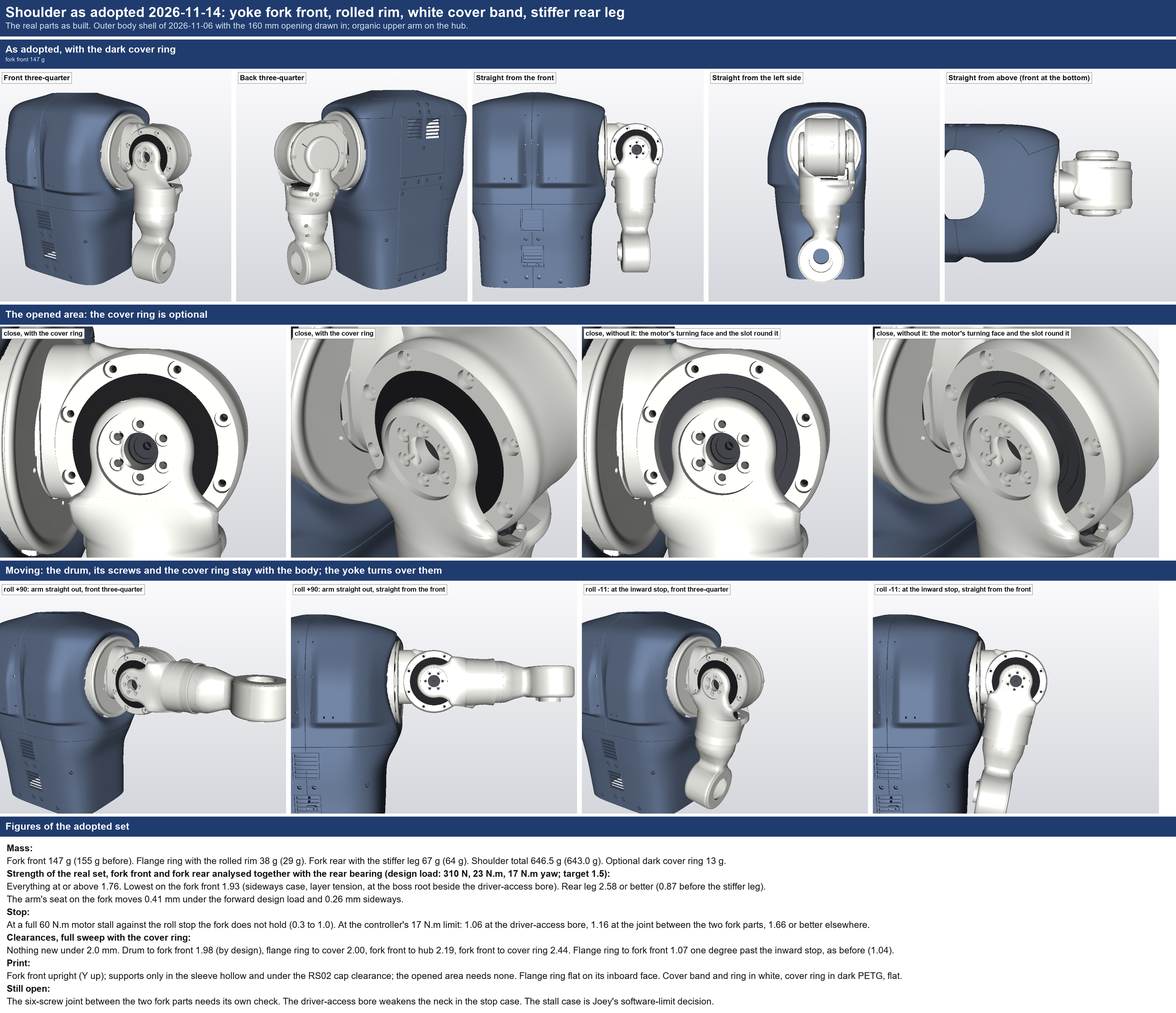
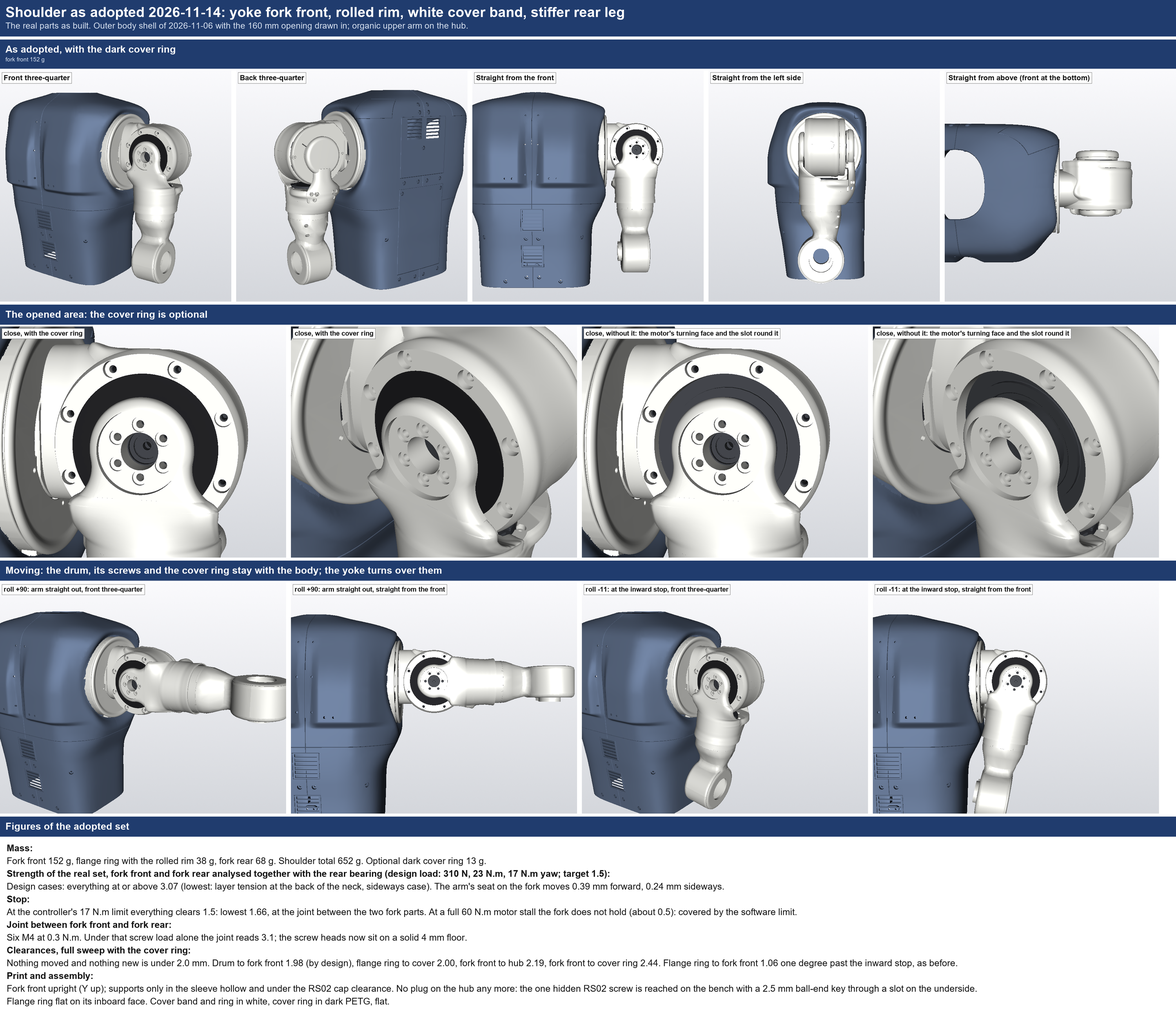
Shoulder fork: adopt the structural revision so the roll stop at 17 N.m clears 1.5 everywhere
Fork front: a key slot on the hidden underside replaces the driver bore through the neck and its plug on the hub; the
joint pad is 3 mm thick with two gussets inside the sleeve (151.8 g). Fork rear: 4 mm counterbore floors under the outer
joint screws on a solid 4.4 mm front plate (68.2 g). The access plug part is removed. Real builds, exports recorded,
assembly rebuilt, clearance sweep unchanged; combined and bolted-joint cases on the real set: lowest 3.07 in the design
cases and 1.66 at the 17 N.m stop. Joint screws to 0.3 N.m.

diff --git a/cad/scripts/shoulder/build_parts.py b/cad/scripts/shoulder/build_parts.py
@@ -456,6 +456,8 @@ def build_access_plugs():
     """FRONT BLEND mock-up: press-in plugs (Ø6.9 in the Ø7 RS02 access holes) at the dome's top, 7 deep, top trimmed to
     the dome's r 55 surface about the roll axis; a 2 x 1 mm pry notch on the back edge (toward the drum, out of sight)
     lifts them out with a small screwdriver."""
+    if KEY_SLOT and FORK_YOKE and LOOK not in ('ffT', 'ffTS'):
+        raise SystemExit('no access plug: the key slot ends on the hidden underside and the long driver bore is gone')
     d = new_part(OUT / 'shoulder_fork_access_plugs_left.SLDPRT')
     if FORK_YOKE and LOOK not in ('ffT', 'ffTS'):
         # YOKE: one plug. The 104 deg driver bore comes out at the top of the hub's head (r 30 about the roll axis); the plug
@@ -776,6 +778,22 @@ def build_fork_front():
         _py0, _pw = _py0 - 2.5, _pw + 6.0
     extrude(d, zsk(d, JZ0 + _pt, 'JOINT_PAD', lambda s: s.rpoly(rect_pts((RX, (_py0 + SEAT_Y[1]) / 2, JZ0 + _pt), X, Y, _pw, SEAT_Y[1] - _py0), [4, 4, 4, 4])),
             'JOINT_PAD', _pt, NZ, lo=-1.0)
+    if JOINT_GUSSET:
+        def _wall_x(y_, side):
+            q = [(a_[0], a_[2]) for a_ in EV.sleeve_section(y_, 2.0)]
+            zc_ = JZ0 + _pt / 2
+            xs_ = []
+            for (x0, z0_), (x1, z1_) in zip(q, q[1:] + q[:1]):
+                if (z0_ - zc_) * (z1_ - zc_) <= 0 and z0_ != z1_:
+                    xs_.append(x0 + (x1 - x0) * (zc_ - z0_) / (z1_ - z0_))
+            return (min(xs_) if side < 0 else max(xs_))
+        yT, yB = _py0 + 0.3, _py0 + 0.3 - JOINT_GUSSET
+        for sd_ in (-1, 1):
+            xT, xB = _wall_x(yT, sd_), _wall_x(yB, sd_)
+            g_ = [(xT + sd_ * 1.0, yT), (xT - sd_ * 6.0, yT), (xB - sd_ * 0.3, yB), (xB + sd_ * 1.0, yB)]
+            log(f'  gusset {sd_:+d}: wall X offset {xT - RX:.1f} at Y {yT:.1f}, {xB - RX:.1f} at Y {yB:.1f}')
+            extrude(d, zsk(d, JZ0 + _pt, f'JOINT_GUSSET_{"L" if sd_ < 0 else "R"}', lambda s, g_=g_: s.poly([(x_, y_, JZ0 + _pt) for x_, y_ in g_])),
+                    f'JOINT_GUSSET_{"L" if sd_ < 0 else "R"}', _pt, NZ, lo=-1.0)
     if FB == '3':
         # FRONT BLEND 3, true wrap: ONE loft from the cuff's whole front half (+-90 deg about the yaw axis) at the seat top up
         # into the cheek's exact crowned section at Y 392 (and on inside the cheek), so cuff, skirt and cheek are one
@@ -1052,8 +1070,12 @@ def build_fork_rear():
     fillet(d, edges_where(d, _in_root), [ss['root_r'], 1.0], 'TOOTH_ROOT')
     # the hollow stops 1.6 short of the joint plane: a front plate, so the skin does not run out to a knife edge where the
     # outline meets the plane at a shallow angle (the cable channel cuts through the plate where the cables pass)
-    hy = [y_ for y_ in ((Y_SPLIT - 0.5, 344.0, 349.0) if SC47 else (SL['y_bot'] + 2.0, 322.0, 330.0, 338.0, 344.0, 349.0)) if min(q[2] for q in EV.sleeve_section(y_, 2.0)) < JZ0 - (1.6 + JOINT_EXTRA) - 1.0]
-    hs = [clip_sk(y_, 'rear', 2.0, 0.0, f'SLEEVE_R_IN{i}', zc=JZ0 - (1.6 + JOINT_EXTRA)) for i, y_ in enumerate(hy)]   # SIDE CENTRE: the thin bottom stays solid
+    # front plate at the joint: 1.6 as first built. With the thicker counterbore floors (JOINT_FLOOR over 3) it is at least
+    # 0.4 more than the floor, so every screw head seats on solid plate: as first built the hollow reached under the lower
+    # pair's counterbores, the head sat partly on the 1.6 mm plate, and the floor plane touched the hollow along an edge
+    _plate = max(1.6 + JOINT_EXTRA, JOINT_FLOOR + 0.4) if JOINT_FLOOR > 3.0 else 1.6 + JOINT_EXTRA
+    hy = [y_ for y_ in ((Y_SPLIT - 0.5, 344.0, 349.0) if SC47 else (SL['y_bot'] + 2.0, 322.0, 330.0, 338.0, 344.0, 349.0)) if min(q[2] for q in EV.sleeve_section(y_, 2.0)) < JZ0 - _plate - 1.0]
+    hs = [clip_sk(y_, 'rear', 2.0, 0.0, f'SLEEVE_R_IN{i}', zc=JZ0 - _plate) for i, y_ in enumerate(hy)]   # SIDE CENTRE: the thin bottom stays solid
     d.ClearSelection2(True)
     for k in hs:
         k.Select2(True, 1)

diff --git a/cad/scripts/shoulder/dims.py b/cad/scripts/shoulder/dims.py
@@ -96,18 +96,22 @@ DOME = dict(r=55.0, edge=5.0, back_t=2.4, pocket_r=(24.5, 52.6), pockets=[(-20.0
 # of yoke.py, a solid neck (no pockets on the back face) and a 4.5 mm blend cone at the boss root. FORK_YOKE=0 builds the
 # dome of 2026-11-13 again (LOOK=ffT, ffTS do so for the analysis builds).
 FORK_YOKE = os.environ.get('FORK_YOKE', '1') != '0'
-# KEY SLOT (look variant until adopted): the 104 deg RS02 screw is reached with a ball-end key tilted KEY_SLOT_DEG back
+# KEY SLOT: the 104 deg RS02 screw is reached with a ball-end key tilted KEY_SLOT_DEG back
 # from the screw's axis, through a short slot that comes out on the fork front's hidden underside (the drum's envelope, open
 # on the bench where the RS02 goes on). It replaces the dia 7 driver bore that ran 95 mm up through the neck beside the boss
-# root to the top of the hub's head, and its plug. KEY_SLOT=1 to build it.
-KEY_SLOT = os.environ.get('KEY_SLOT', '0') != '0'
+# root to the top of the hub's head, and its plug. KEY_SLOT=0 builds the bore again.
+KEY_SLOT = os.environ.get('KEY_SLOT', '1') != '0'      # adopted 2026-11-14 (checks/FORK_FRONT_FE.md, structural revision)
 KEY_SLOT_DEG = 20.0
-# counterbore floor under the four outer joint screws' heads in the fork rear (the inner pair has 5.5): 3.0 as first built
-JOINT_FLOOR = float(os.environ.get('JOINT_FLOOR', '3.0'))
+# counterbore floor under the four outer joint screws' heads in the fork rear (the inner pair has 5.5)
+JOINT_FLOOR = float(os.environ.get('JOINT_FLOOR', '4.0'))      # 4.0 adopted 2026-11-14 (3.0 before)
 # more material at the joint between fork front and fork rear, all inside the sleeve (the stop's torque crosses the joint as
 # a pull along Y on the end screws): the fork front's pad JOINT_EXTRA x 2 thicker (1 mm as first built), 2.5 mm further down
 # and 3 mm wider each side; the fork rear's front plate JOINT_EXTRA thicker (1.6 as first built)
-JOINT_EXTRA = float(os.environ.get('JOINT_EXTRA', '0'))
+JOINT_EXTRA = float(os.environ.get('JOINT_EXTRA', '1.0'))      # 1.0 adopted 2026-11-14 (0 before)
+# two gussets inside the fork front's sleeve, in the pad's plane, from the pad's two lower corners JOINT_GUSSET mm down the
+# sleeve's walls (6 mm wide at the pad, tapering to nothing): the stop's pull runs into the wall over a length. Clear of the
+# cable exit by 2.4 mm or more (the channel is X -15.8 to +17 with its walls and enters this plane only below Y 332)
+JOINT_GUSSET = float(os.environ.get('JOINT_GUSSET', '10'))      # 10 adopted 2026-11-14 (0 before)
 YOKE = dict(r=30.0, wedge=36.0, fillet=22.0, round=13.0, pocket_wall=4.0, half_w=0.0)   # round 13 (was 9.5): softer shoulder ends
 # COVER RING (new part, 2026-11-14, optional): a dark ring pressed into the drum's lip bore. It closes the 7 mm slot between
 # the RS03's turning face (to r 36) and the lip's bore (r 43), which the yoke leaves open to view, and gives the opening one

diff --git a/hardware/shoulder/study-20261111/cad-pass1/scripts/render_pass1.py b/hardware/shoulder/study-20261111/cad-pass1/scripts/render_pass1.py
@@ -46,7 +46,7 @@ def step_mesh(path, M=None, tol=0.2):
 
 SRC = np.array([[-1, 0, 0, 97], [0, 0, 1, 424.860667548201], [0, 1, 0, -0.0141253439872], [0, 0, 0, 1]], float)   # left source -> torso
 print('loading', flush=True)
-P = {k: trimesh.load(STL / f'{k}.stl') for k in ('drum', 'ring', 'cap', 'fork_front', 'fork_rear', 'hub', 'cover', 'port_cap', 'access_plugs')}   # access plugs: front blend 3   # fork cap dropped (look option a)
+P = {k: trimesh.load(STL / f'{k}.stl') for k in ('drum', 'ring', 'cap', 'fork_front', 'fork_rear', 'hub', 'cover', 'port_cap') + (() if KEY_SLOT else ('access_plugs',))}   # no access plug once the key slot is adopted   # access plugs: front blend 3   # fork cap dropped (look option a)
 brg = trimesh.creation.annulus(r_min=20.0, r_max=26.0, height=7.0, sections=96)
 brg.apply_translation((RX, RY, (BRG_Z[0] + BRG_Z[1]) / 2))
 M = dict(roll_rs03=step_mesh(REPO / 'cad/vendor/robstride/vendor_robstride_rs03.stp', T_ROLL_RS03),

diff --git a/hardware/shoulder/study-20261111/cad-pass1/PRINT_NOTES.md b/hardware/shoulder/study-20261111/cad-pass1/PRINT_NOTES.md
@@ -15,9 +15,8 @@ still needs its pre-print gate
 | Flange ring | `shoulder_pitch_flange_ring_left` | 38.1 g | 2026-11-14 (rolled rim B, adopted) | Exported and recorded 2026-11-14. Prints in the visible white |
 | Rear cap | `shoulder_roll_cap_left` | 85.4 g | 2026-11-14 (rear cap screw fix: sockets, Ø2.9 holes) | Exported and recorded 2026-11-14. **Waits** for the roll cable decision (the roll rig) |
 | Drum port cap | `shoulder_roll_drum_port_cap_left` | 1.4 g | 2026-11-11 | Geometry settled. **No recorded export** |
-| Fork front | `shoulder_fork_front_left` | 146.8 g | 2026-11-14 (yoke, solid neck, root cone: adopted) | Exported and recorded 2026-11-14. **Waits** for a real plug tried in the channel, and for the rig (the skirt bounds the dish loop) |
-| Access plug (1) | `shoulder_fork_access_plugs_left` | 0.3 g | 2026-11-14 (one plug, at the top of the hub's head) | Exported and recorded 2026-11-14. Print with the fork front |
-| Fork rear | `shoulder_fork_rear_left` | 67.2 g | 2026-11-14 (stiffer leg, adopted) | Exported and recorded 2026-11-14. **Waits** for the 6808 coupon and for the rig (it carries the yaw exit) |
+| Fork front | `shoulder_fork_front_left` | 151.8 g | 2026-11-14 (yoke; then the key slot, 3 mm joint pad and two inside gussets) | Exported and recorded 2026-11-14. **Waits** for a real plug tried in the channel, and for the rig (the skirt bounds the dish loop) |
+| Fork rear | `shoulder_fork_rear_left` | 68.2 g | 2026-11-14 (stiffer leg; then 4 mm counterbore floors on a solid 4.4 mm front plate) | Exported and recorded 2026-11-14. **Waits** for the 6808 coupon and for the rig (it carries the yaw exit) |
 | Cover ring (optional) | `shoulder_roll_cover_ring_left` | 13.1 g | 2026-11-14 (new) | Exported and recorded 2026-11-14. Dark PETG. Can be left off |
 | **Hub** | `shoulder_hub_left` | 80.2 g | 2026-11-14 (rev D3c7, adopted) | **Released for the stage 1 print. Print file ready** (hub section below) |
 | Pitch loop cover | `shoulder_pitch_loop_cover_left` | 102.3 g | 2026-11-11 | **Waits:** its M5 pads are placeholders and the feed position waits for the final shell (CAD_NOTES "Still open") |
@@ -26,8 +25,8 @@ still needs its pre-print gate
 - **Hub:** `cad/exports/shoulder/shoulder_hub_left.STEP/.STL` is rev D3c7 (2026-11-14), the adopted hub. STL SHA-256
[1 lines of base64/hex data omitted]
 - **Drum, rear cap:** exported and recorded 2026-11-14, with the rear cap screw fix.
-- **Fork front, access plug, fork rear, flange ring, cover ring:** exported and recorded 2026-11-14 with the adoption of
-  the yoke (CAD_NOTES "Adopted 2026-11-14: yoke fork front").
+- **Fork front, fork rear, flange ring, cover ring:** exported and recorded 2026-11-14 (CAD_NOTES "Adopted 2026-11-14: yoke
+  fork front" and "Adopted 2026-11-14: structural revision"). There is no access plug any more.
 - **Port cap:** no export in `cad/exports/` yet. Its STL is in the scratch folder only.
 
 ## Part by part
@@ -69,20 +68,19 @@ Material PETG throughout. "Not sliced" applies to every orientation and support 
   flatness after printing (CAD_NOTES "Still open").
 - **The opened area needs no support:** it is open air above the two shoulders, which face upward. The hub's head widens
   from the neck by 2 mm a side over 17 mm of height, and the root cone is 45°: both print without support.
-- **The driver-access bore** (Ø7, for the 104° RS02 screw) runs up through the neck and comes out at the top of the hub's
-  head. It prints as a vertical hole. Its plug goes in after the RS02 screws are tight.
+- **Key slot for the 104° RS02 screw** (adopted 2026-11-14; it replaces the Ø7 driver bore through the neck and its
+  plug): a 7 mm slot from the screw's head, tilted 20° back, out onto the fork front's hidden underside. Reach the screw
+  with a **2.5 mm ball-end hex key held 20° back from the screw's axis** (a ball end works to about 25°). **Bench only:** the
+  RS02 goes onto the fork front before the fork front goes onto the drum; once the drum is on, the slot is covered.
+  Section: checks/size_audit/KEY_ACCESS.png.
+- **Inside the sleeve at the joint:** the pad is 3 mm thick with two small gussets down the walls. They print without
+  support (31° from vertical) and stay 2.4 mm or more clear of the cable exit.
 - **Holes printed Ø3.8, reamed Ø4.00:** three on the RS03 boss, at 0° and ±120° on r 15.2. They take Ø4 × 16 pins into the
   RS03's three plain locating holes.
 - **Inserts:** six M4 for the fork joint.
 - **Before the first print:** try a real XT30(2+2)-F with its lead in the plug channel's size (r 36-50, 16.5 wide,
   Y 353.9-361.1). The plug's height along the motor axis is assumed.
 - Source: CAD_NOTES "Side centre r 47" and "RS02 re-clocked +40°".
-
-### Access plug
-- **One plug** (Ø6.9 × about 7), flat. It presses into the 104° access bore at the top of the hub's head after the RS02
-  screws are in; a pry notch on its back edge lifts it out.
-- The 144° bore ends under the drum, out of sight, and gets no plug. (The second plug of the earlier part sat inside the
-  drum's volume; it is dropped.)
 
 ### Cover ring (optional)
 - **What:** a dark ring pressed into the drum's lip bore (Ø86), flush with the lip's face. It closes the 7 mm slot between
@@ -94,7 +92,10 @@ Material PETG throughout. "Not sliced" applies to every orientation and support 
 
 ### Fork rear
 - **Leg, adopted 2026-11-14:** 2 mm wider each side and 2 mm deeper at its upper stations (Y 380 and 402). The thin
-  section beside the cable channel read 0.87 on layer tension before and reads 2.6 or better now (FORK_FRONT_FE.md).
+  section beside the cable channel read 0.87 on layer tension before and reads 3.1 or better now (FORK_FRONT_FE.md).
+- **Joint, adopted 2026-11-14:** the four outer joint screws' counterbore floors are 4.0 mm (3.0 before) on a solid
+  4.4 mm front plate; before, the hollow reached under the lower pair's heads. A button head now sits about flush
+  (0.1 mm proud of its recess).
 - **Orientation:** upright, Y up; it starts on its flat bottom at Y 340.
 - **Supports:** its hollow's roof (Y 340-349); a small one under the stop tooth's outer face (that face carries no load).
 - **6808 housing:** modelled Ø52.2 with a 0.4 mm flat at the top, because the bore prints on its side. **Print the seat
@@ -189,7 +190,7 @@ clamps nothing.**
 | Drum → pitch RS03 output | 6 × **M4 × 18 with one washer**, or M4 × 16 | 6 × M4, depth 6, blind | Pad 11.7 mm. M4 × 18 bare goes in 6.3 mm and bottoms; with a 0.8 mm washer 5.5 mm; M4 × 16 gives 4.3 mm |
 | Drum → roll RS03 housing | 8 × **M4 × 10** | 8 × M4, depth 8 | Flange 3.5 mm under the head. M4 × 10 gives 6.5 mm; M4 × 12 goes in 8.5 mm and bottoms |
 | Fork front → RS02 body | 5 × **M3 × 12** on PCD 73 at -96 / -56 / -16 / 104 / 144° | 9 × M3, depth 8 (given from the output side) | Seat 6.5 mm. 5.5 mm into the motor. M3 × 16 bottoms. **Check on the motor** that the holes are threaded from the rear, as the old bracket used them |
-| Fork rear → fork front (joint) | 6 × ISO 7380 M4 button heads: **2 × M4 × 10** (X ±17) and **4 × M4 × 8** | M4 heat-set inserts, bore Ø5.6 × 7.3-7.8 deep | **Torque 0.15 N·m, no more:** the counterbore floors are 3 mm thick and read 1.0 under 0.3 N·m of screw load alone (FORK_FRONT_FE.md, "The six-screw joint"). The recesses are about 3.1 mm deep, so a DIN 912 head would stand proud. **Use short inserts (4 mm):** a standard 8.1 mm insert stands proud of the joint face |
+| Fork rear → fork front (joint) | 6 × ISO 7380 M4 button heads: **2 × M4 × 10** (X ±17) and **4 × M4 × 8** | M4 heat-set inserts, bore Ø5.6 × 7.3-7.8 deep | **Torque 0.3 N·m** (about 400 N per screw): with the 4 mm floors on solid plate the joint reads 3.1 under that preload alone and 1.67 or better at the 17 N·m stop (FORK_FRONT_FE.md, "The adopted set"). The recesses are about 3.1 mm deep, so a DIN 912 head would stand proud. **Use short inserts (4 mm):** a standard 8.1 mm insert stands proud of the joint face |
 | Flange ring → drum spokes | 5 × **M3 × 5** | M3 × 4 inserts, bore 3.8 deep | Ring 1.8 mm. M3 × 6 bottoms in the bore |
 | Rear cap → drum | 3 × **M2.5 × 14, thread-forming** (for plastics; pan or cap head up to Ø5.0), at r 50.6, 0 / 180 / 270°. M2.5 × 16 also fits | Ø2.1 pilots through a 2.5 mm locating collar on the drum, 11 mm deep from the collar's top | 5.6 mm of cap under the head. M2.5 × 14 gives 8.2 mm in the pilot; × 16 gives 10.2 with 0.8 to spare; **M2.5 × 18 bottoms.** The collars locate the cap and carry the roll stop's reaction; the screws only clamp. **Buy 3, and spares.** (Adopted 2026-11-14; before that the parts took M3 at r 50, which no longer fit) |
 
@@ -229,7 +230,7 @@ clamps nothing.**
    3. Fit the five RS02 screws: the three rear ones from above, and the 104° and 144° ones through their access bores.
 2. **Fork front onto the drum,** after the 24 h re-torque of the RS02 screws. After this the drum blocks every RS02
    screw except 104°, so the order is fixed.
-3. Press in the access plug at the top of the hub's head.
+3. (No access plug: the key slot is on the underside.)
 4. Feed the bundle down from the ring's open top (Y 340), round the bend and out of the exit, as bare wire with no
    plug on it. Then fit the fork rear (six button heads).
    - The side-centre round laid the bundles first and slid the RS02 in past them. With the RS02 fitted first, the

diff --git a/hardware/shoulder/study-20261111/checks/FORK_FRONT_FE.md b/hardware/shoulder/study-20261111/checks/FORK_FRONT_FE.md
@@ -1,6 +1,6 @@
 # The fork in finite elements: today's parts, the yoke, and the rear leg (2026-11-14)
 
-**Status:** the checks are done and **the yoke, rim B, the stiffer rear leg and the cover ring are adopted (2026-11-14)**. The real set has its own figures below ("The adopted set").
+**Status:** the checks are done. **Adopted 2026-11-14:** the yoke, rim B, the stiffer rear leg and the cover ring; then the structural revision (key slot, joint floors, pad, plate, gussets). The real set's figures: "The adopted set" below.
 
 ## Short answer
 
@@ -23,28 +23,56 @@
 > neck (0.92 / 0.70). That came from the fork front analysed alone, in bounds that left the rear leg and the 6808 out.
 > In the combined model the fork front passes. The alone-model tables further down are kept as bounds, not as a verdict.
 
-## The adopted set (real parts, 2026-11-14)
+## The adopted set (real parts, 2026-11-14, after the structural revision)
 
-Combined model on the real fork front and fork rear as released (530,413 nodes; the real fork front keeps its
-driver-access bore, which the analysis builds above leave out). Von Mises / layer tension, worst 0.5 mm ball.
+The released fork front and fork rear: yoke, solid neck and root cone, stiffer rear leg, **key slot**, 4 mm joint floors
+on a solid plate, 3 mm pad and two inside gussets. Von Mises / layer tension, worst 0.5 mm ball, target 1.5.
+
+**Combined model** (the two parts as one body, 6808 seat held radially; 510,634 nodes, 0.7 mm at the boss root; FFEPlus,
+no contact in this model):
 
 | Case | Boss root | Head and neck | Lower cheek | Joint | Rear leg | Seat moves |
 |---|---|---|---|---|---|---|
-| Forward, yaw +17 | 4.44 / 2.48 | 3.77 / 2.42 | 4.79 / 3.78 | 2.18 / 3.22 | 5.22 / 3.69 | 0.41 mm |
-| Forward, yaw -17 | 4.25 / 4.78 | 4.04 / 2.75 | 5.84 / 4.07 | 2.03 / 2.34 | 5.29 / 2.76 | 0.43 mm |
-| Sideways | 3.41 / 1.93 | 4.40 / 2.82 | 7.40 / 3.51 | 1.76 / 2.62 | 4.60 / 2.58 | 0.26 mm |
-| Stop, 60 N·m stall | 0.40 / 0.30 | 0.78 / 0.50 | 0.61 / 0.53 | 0.38 / 0.33 | 0.97 / 0.47 | |
-| Stop at the controller's 17 N·m | 1.41 / 1.06 | 2.75 / 1.77 | 2.15 / 1.87 | 1.34 / 1.16 | 3.42 / 1.66 | |
+| Forward, yaw +17 | 6.82 / 4.93 | 6.39 / 3.79 | 5.34 / 3.79 | 4.33 / 4.61 | 5.39 / 4.82 | 0.39 mm |
+| Forward, yaw -17 | 7.35 / 4.19 | 6.61 / 3.97 | 6.55 / 4.32 | 3.74 / 3.60 | 5.31 / 3.25 | 0.40 mm |
+| Sideways | 6.65 / 3.17 | 5.97 / 3.07 | 7.65 / 3.69 | 3.29 / 3.25 | 4.58 / 3.08 | 0.24 mm |
+| Stop, 60 N·m stall | 0.96 / 0.85 | 1.15 / 0.70 | 0.69 / 0.54 | 0.53 / 0.51 | 0.98 / 0.57 | |
+| **Stop at the controller's 17 N·m** | 3.39 / 3.00 | 4.06 / 2.47 | 2.44 / 1.91 | 1.87 / 1.80 | 3.46 / 2.01 | |
 
-- **Design cases: everything at or above 1.76.** The lowest on the fork front is 1.93 (boss root, sideways, layer
-  tension); the lowest of all is the joint region's 1.76.
-- **The real set reads lower at the boss root than the analysis build** (4.44 / 2.48 against 5.92 / 4.20 forward):
-  the driver-access bore passes through the neck beside the boss root, and the peak sits at the bore's edge
-  (X offset -6 to -12, Y 399-401). It still passes. Open item 42.
-- **The stop case is worse at the boss root for the same reason:** 0.40 / 0.30 at a stall, 1.41 / 1.06 at 17 N·m.
-- The 13 mm rounds at the shoulder ends (9.5 in the look build) cost nothing: lower cheek 4.79 / 3.78 or better.
+**Bolted joint** (the two parts as two bodies, six preloaded screws, contact on the pad; Intel direct sparse, 188,031
+nodes; joint zone away from the connector ties; fork rear side, then fork front side):
 
-## The six-screw joint between fork front and fork rear (2026-11-14)
+| Case | Preload per screw | Fork rear side | Fork front side |
+|---|---|---|---|
+| Preload alone | 400 N (0.3 N·m) | 3.06 / 5.69 | 7.66 / 8.18 |
+| Sideways | 400 N | 2.87 / 3.52 | 4.15 / 2.36 |
+| Stop at 17 N·m | 400 N | 2.65 / 1.68 | 2.48 / **1.67** |
+| Stop at 17 N·m | 200 N | 3.56 / 1.77 | 2.85 / **1.66** |
+
+**Lowest figure per case, and where:**
+
+| Case | Lowest | Where |
+|---|---|---|
+| Forward, yaw +17 | 3.79 (layer) | Head and neck, front face beside the hub (X offset +20.6, Y 414, Z 45) |
+| Forward, yaw -17 | 3.25 (layer) | Rear leg at its foot on the joint (X +28, Y 362, Z -45.9) |
+| Sideways | 3.07 (layer) | Head and neck, back face at the neck (X -29.3, Y 411.5, Z 39) |
+| Stop at 17 N·m, combined | 1.80 (layer) | Joint region, pad's upper corner (X -29.9, Y 358.9, on the joint plane) |
+| Stop at 17 N·m, bolted joint | 1.66 (layer) | Fork front, where the left gusset meets the pad (X -22.3, Y 338.5, Z -43.7) |
+| Stop at a 60 N·m stall | 0.47 (layer, bolted: 1.66 x 17/60) | The same place. Covered by the software limit; the bench break test settles it |
+
+- **The 17 N·m stop clears 1.5 everywhere:** lowest 1.66. Before the revision it read 1.06 at the driver bore and 1.34
+  at the joint.
+- **Design cases: lowest 3.07** (1.76 before the revision).
+- **Joint screws at 0.3 N·m:** supported. Under that preload alone the joint reads 3.06 (1.01 before, when the lower
+  heads sat partly over the hollow).
+- **Outside unchanged,** except that the plug at 12 o'clock on the hub is gone.
+- These figures are the same as the look builds `ykK3` and `frJ3` gave: the real parts have the same volumes to the cubic
+  millimetre and the same meshes.
+- **Not verified:** the bolt forces under load and the gap on the pad were not read; the fork rear's 6808 seat is held
+  rigidly in the radial direction; the stop case's figures away from the joint come from the combined model, where the
+  joint is solid.
+
+## The six-screw joint between fork front and fork rear (2026-11-14, first check, before the structural revision)
 
 The adopted fork front and fork rear as **two bodies**, joined as built: six M4 button heads from the fork rear's
 counterbores into the fork front's inserts, each a bolt connector with a preload, and no-penetration contact on the
@@ -81,10 +109,11 @@ ball. `fea_shoulder.py` J_*, `run_joint.sh`, `joint_post.py`.
 - These runs use a coarser mesh than the merged model and no fine zone at the boss root, so their figures outside the
   joint zone are not to be compared with the tables above.
 
-## Structural revision for the 17 N·m stop (2026-11-14): look variants, NOT adopted
+## Structural revision for the 17 N·m stop (2026-11-14): how it got there (variants 1 and 2; variant 3 with gussets is adopted)
 
-Aim: the stop at the controller's 17 N·m to clear 1.5 everywhere. Two variants built and run; the second is one figure
-short, so nothing is adopted. The switches are off by default (`KEY_SLOT`, `JOINT_FLOOR`, `JOINT_EXTRA` in `dims.py`).
+Aim: the stop at the controller's 17 N·m to clear 1.5 everywhere. Variants 1 and 2 below were one figure short; variant 3
+(variant 2 plus two gussets inside the sleeve, and the fork rear's plate made solid under the screw heads) clears it and
+is adopted: see "The adopted set" above. The switches are `KEY_SLOT`, `JOINT_FLOOR`, `JOINT_EXTRA`, `JOINT_GUSSET` in `dims.py`.
 
 **What the variants change** (all inside or underneath; the outside is unchanged except that the plug on the hub goes):
 
@@ -133,11 +162,12 @@ fork front goes onto the drum): the assembly order is unchanged. No access plug 
   stop's torque crosses the joint as a pull along Y, the layer direction, on the end screws; at those two corners it
   runs from the pad into the sleeve's 2 mm wall where the wall crosses the joint plane. The thicker pad moved it from
   1.34 to 1.42; the fork rear side now passes (1.69).
-- **Next step, not built:** two small gussets inside the sleeve, from the pad's lower corners about 10 mm down the two
-  walls, so the pull runs into the wall over a length and not at a corner. They have to stay clear of the cable exit that
-  runs inside the ring; that needs a look at the exit's path before drawing.
-- The second variant's fork rear STL failed the integrity scan on export (one non-manifold edge); it would need a
-  re-export before any adoption.
+- **What closed it (variant 3, adopted):** two small gussets inside the sleeve, from the pad's lower corners 10 mm down
+  the two walls. The cable exit was checked first: its channel is X -15.8 to +17 with its walls and enters the pad's
+  plane only below Y 332; the gussets stay 2.4 mm or more clear, touch nothing that moves, and print without support.
+- **The second variant's fork rear STL had a non-manifold edge.** Cause: the hollow reached under the lower screws'
+  counterbores, so the counterbore floor's plane touched the hollow along an edge and the heads sat partly on the thin
+  plate. Fixed by making the front plate solid under the floors (4.4 mm); the mesh is clean and the joint much stronger.
 
 ## Verdict
 

diff --git a/hardware/shoulder/study-20261111/checks/OPEN_ASSUMPTIONS.md b/hardware/shoulder/study-20261111/checks/OPEN_ASSUMPTIONS.md
@@ -53,8 +53,8 @@ place, every fit that rests on a bought part's dimension, heat, loads not run.
 | 38 | **Rear cap screws: 0.7 mm of wall, and they carry the roll stop** | Not stated | The three M3 thread-forming screws go into Ø2.6 pilots at r 50 in the drum; the bore is r 48, so the pilot has 0.71-0.73 mm of wall toward the bore. The cap passes the stop's reaction to the drum through these screws: about 970 N on the worst one at a 60 N·m stall (42-57 MPa in the pilot), 275 N at the 17 N·m software limit (12-16 MPa) | The wall splits when the screw goes in; the cap works loose under stop loads | **Coordinator / Joey:** move the screws out to about r 51.5, with the cap. Part of the roll look build | Drum and cap change | Found 2026-11-13. Rank it about 6 |
 | 39 | **The hub lug figures rest on the arm's section totals and on 13 MPa for shear across the layers** | A_HUB_LUGS.md, "The lug case of record" and "Combined cases at the larger of each lug's section and face total" | Hub D3c7 reads 1.58 / 1.59 in shear at the arm's section totals (271-272 N on the governing lug, G90 + yaw ∓17) and 1.42 / 1.44 at its face totals (294-299 N), which the arm says over-read by up to 11%. The 13 MPa allowable has no test behind it | A lug root cracks across the layers below the design load | **Joey:** print and break the shear-across-layers coupon. If it comes in under about 12.3 MPa, or if the face totals are to be the design load, the outer Z-facing root goes from R1.2 to about R1.6 in the next hub revision | Hub root radius | Found 2026-11-14. Decision for now: section totals are the case of record, no new hub revision; the root radius rides with any other hub change |
 | 40 | **The fork never had a finite-element case. Now it has: the fork front passes, the fork rear's thin leg does not** | C_LOAD_SHARE.md (the two-body fork model failed with code 24; "the beam model below is the result") | Combined model, 2026-11-14 (`fea_shoulder.py` F2_*: fork front and fork rear as one body, boss on the RS03 output fixed, 6808 seat held radially, the design load of check (a) through the RS02 seat, 590,071 nodes, worst 0.5 mm ball). **Today's fork front: 1.74 or better everywhere** (boss root 3.90 / 3.29 forward, 3.64 / 1.84 sideways; von Mises / layer tension). **The fork rear's leg at its thin section (Y 384-392, where it holds the cable channel): 2.13 / 1.26 forward, 1.80 / 1.55 with the yaw reversed, 1.73 / 0.87 sideways.** The first read of this item (the fork front alone: 0.92 / 0.64 at the neck) was a bound that left the rear leg and the 6808 out; it was far too pessimistic and is withdrawn | The rear leg cracks across its layers at the design load, sideways case first | **Here:** a deeper or wider rear leg at Y 380-395 as a look build, re-run in the combined model. The joint between the two fork parts is solid in this model (1.40 / 2.35 at worst), so the six-screw joint still needs its own check | Fork rear leg section; the cable channel in it | Found 2026-11-14 while checking the yoke look build. **Checked the same day as a look build:** with the leg 2 mm wider each side and 2 mm deeper at Y 380 and 402 (LEG2) the thin section reads 3.22 on layer tension sideways and 5.5 forward, and nothing in the design cases is under 1.6; clearances unchanged. **Settled 2026-11-14:** adopted with the yoke; on the real set the rear leg reads 2.58 or better and nothing in the design cases is under 1.76. Details and all figures: FORK_FRONT_FE.md |
-| 41 | **The six-screw joint between fork front and fork rear is solid in the model** | FORK_FRONT_FE.md (the combined model merges the two parts) | The joint region reads 1.76 / 2.62 in the design cases and **0.38 / 0.33 at a 60 N·m stall, 1.34 / 1.16 at the controller's 17 N·m** (the stop tooth's load crosses from the fork rear into the fork front there). Those are upper bounds for six M4 in heat-set inserts and a printed pad | The joint slips, gaps or cracks at the stop, at a load the rest of the fork takes | **Run:** the joint as it is (six bolt connectors with preload, contact on the pad; Intel direct sparse), forward, sideways and stop at 17 N·m | Joint pad size, screw positions, insert bosses | Found 2026-11-14. **Run the same day** (FORK_FRONT_FE.md, "The six-screw joint"): the joint is as stiff as the solid one; design loads read 2.09 or better with 200 N of preload; the stop at 17 N·m reads 1.88 / 1.34 and 2.33 / 1.41 (under 1.5 on layer tension by a little); **the preload itself overloads the 3 mm counterbore floors at 400 N per screw, so the joint screws go to 0.15 N·m**. Open still: 1 mm more at the lower counterbore floors and pad corners if the 17 N·m stop is to clear 1.5 |
-| 42 | **The driver-access bore runs through the fork front's neck beside the boss root** | PRINT_NOTES.md (Ø7, straight up, for the 104° RS02 screw) | On the real adopted set the boss root reads 3.41 / 1.93 sideways and 4.44 / 2.48 forward with the bore, against 5.8 / 2.8 and 5.9 / 4.2 on the same part without it. In the stop case the bore's edge reads **0.40 / 0.30 at 60 N·m and 1.41 / 1.06 at 17 N·m**. The earlier dome had the same bore | A crack starting at the bore under a stop load | **Here:** try the bore stopped below the neck (the driver reaching the screw through the open area above the shoulders at an angle, or a ball-end key), or a sleeve; re-run the stop case | Fork front neck | Found 2026-11-14 on the real-set runs |
+| 41 | **The six-screw joint between fork front and fork rear is solid in the model** | FORK_FRONT_FE.md (the combined model merges the two parts) | The joint region reads 1.76 / 2.62 in the design cases and **0.38 / 0.33 at a 60 N·m stall, 1.34 / 1.16 at the controller's 17 N·m** (the stop tooth's load crosses from the fork rear into the fork front there). Those are upper bounds for six M4 in heat-set inserts and a printed pad | The joint slips, gaps or cracks at the stop, at a load the rest of the fork takes | **Run:** the joint as it is (six bolt connectors with preload, contact on the pad; Intel direct sparse), forward, sideways and stop at 17 N·m | Joint pad size, screw positions, insert bosses | Found 2026-11-14. **Run the same day** (FORK_FRONT_FE.md, "The six-screw joint"): the joint is as stiff as the solid one; design loads read 2.09 or better with 200 N of preload; the stop at 17 N·m reads 1.88 / 1.34 and 2.33 / 1.41 (under 1.5 on layer tension by a little); **the preload itself overloads the 3 mm counterbore floors at 400 N per screw, so the joint screws go to 0.15 N·m**. **Settled 2026-11-14 by the structural revision** (4 mm floors on a solid 4.4 mm plate, 3 mm pad, two gussets): the bolted joint reads 3.06 under 400 N of preload alone, 2.36 or better in the design cases and **1.66 or better at the 17 N·m stop** (1.67 at 400 N); joint screws at 0.3 N·m. At a 60 N·m stall it would read about 0.47: the stall is covered by the software limit, and the bench break test settles it |
+| 42 | **The driver-access bore runs through the fork front's neck beside the boss root** | PRINT_NOTES.md (Ø7, straight up, for the 104° RS02 screw) | On the real adopted set the boss root reads 3.41 / 1.93 sideways and 4.44 / 2.48 forward with the bore, against 5.8 / 2.8 and 5.9 / 4.2 on the same part without it. In the stop case the bore's edge reads **0.40 / 0.30 at 60 N·m and 1.41 / 1.06 at 17 N·m**. The earlier dome had the same bore | A crack starting at the bore under a stop load | **Here:** try the bore stopped below the neck (the driver reaching the screw through the open area above the shoulders at an angle, or a ball-end key), or a sleeve; re-run the stop case | Fork front neck | Found 2026-11-14 on the real-set runs. **Settled the same day:** the bore is replaced by a key slot on the hidden underside (a 2.5 mm ball-end key at 20°, bench only; KEY_ACCESS.png). The boss root now reads 6.65 / 3.17 or better in the design cases and 3.4 / 3.0 at the 17 N·m stop |
 
 ## Settled so far
 

diff --git a/hardware/shoulder/study-20261111/cad-pass1/CAD_NOTES.md b/hardware/shoulder/study-20261111/cad-pass1/CAD_NOTES.md
@@ -956,3 +956,42 @@ on the fork front itself (boss root, sideways). Table and the stop case: checks/
 
 **Sheet:** [../checks/size_audit/YOKE_ADOPTED.png](../checks/size_audit/YOKE_ADOPTED.png).
 
+## Adopted 2026-11-14: structural revision (key slot, joint floors, pad, plate and gussets)
+
+`adopt_rev.sh`. Defaults in `dims.py`: `KEY_SLOT` on, `JOINT_FLOOR` 4.0, `JOINT_EXTRA` 1.0, `JOINT_GUSSET` 10 (each can be
+set back). Aim: the roll stop at the controller's 17 N·m to clear 1.5 everywhere; it does (checks/FORK_FRONT_FE.md).
+
+- **Fork front:** the Ø7 driver bore through the neck, and its plug at the top of the hub's head, are replaced by a
+  **key slot** on the hidden underside (a 2.5 mm ball-end key at 20°). The joint pad is 3 mm thick (1), 2.5 mm further
+  down and 3 mm wider each side, with **two gussets inside the sleeve** from its lower corners 10 mm down the walls.
+  119,497 mm³, **151.8 g** (146.8). Integrity PASS. The outside is unchanged except that the plug is gone.
+- **Fork rear:** counterbore floors under the four outer joint screws 4.0 mm (3.0) on a **solid 4.4 mm front plate**
+  (1.6). As first built the hollow reached under the lower pair's counterbores: the heads sat partly on the 1.6 mm
+  plate. 53,727 mm³, **68.2 g** (67.2). Integrity PASS.
+- **Access plug:** the part is removed (`shoulder_fork_access_plugs_left`, its exports and records).
+- Exports of fork front and fork rear replaced and recorded; layout check 0 errors. Assembly rebuilt.
+
+**Masses now:**
+
+| Part | g |
+|---|---|
+| Drum with pitch adaptor | 227.1 |
+| Fork front | 151.8 |
+| Rear cap | 85.4 |
+| Hub | 80.2 |
+| Fork rear | 68.2 |
+| Flange ring | 38.1 |
+| Port cap | 1.4 |
+| **Shoulder total** | **652.2** |
+| Cover ring (optional) | 13.1 |
+| Pitch loop cover (torso side) | 102.2 |
+
+**Clearance sweep on the real set** (full run, with the cover ring), against the sweep after the yoke's adoption: nothing
+moved. Cap ↔ fork rear 0.02 (0.03; the stop's contact), flange ring ↔ fork front 1.06 one degree past the inward stop
+(1.07), drum ↔ fork front 1.98 (1.98), flange ring ↔ cover 2.00 (2.00), fork front ↔ hub 2.19 (2.19), fork front ↔ cover
+ring 2.44 (2.44), drum ↔ RS02 2.59 (2.59), fork front ↔ port cap 2.62 (2.62), hub ↔ RS02 3.42 (3.42). The changes are
+inside the sleeve and on the fork front's underside.
+
+**Sheets:** [../checks/size_audit/YOKE_ADOPTED.png](../checks/size_audit/YOKE_ADOPTED.png) (refreshed),
+[../checks/size_audit/KEY_ACCESS.png](../checks/size_audit/KEY_ACCESS.png).
+

diff --git a/hardware/shoulder/study-20261111/checks/SIZE_AUDIT.md b/hardware/shoulder/study-20261111/checks/SIZE_AUDIT.md
@@ -37,8 +37,8 @@
 **Overall:** 120 mm outboard of the body's side (shell at X 107-109, the fork's outer face at X 227.5); 110.6 deep; 198
 high from the drum's top to the hub's underside.
 
-**Mass:** 646.5 g as adopted 2026-11-14: drum 227, fork front 147 (the yoke), rear cap 85, hub 80, fork rear 67, flange
-ring 38 (rolled rim), port cap and plug 2. The optional cover ring is 13 g; the cable cover on the torso another 102 g.
+**Mass:** 652.2 g as adopted 2026-11-14: drum 227, fork front 152 (the yoke), rear cap 85, hub 80, fork rear 68, flange
+ring 38 (rolled rim), port cap 1. The optional cover ring is 13 g; the cable cover on the torso another 102 g.
 
 ## Against the shoulder as built today (the bracket design, same motors)
 
